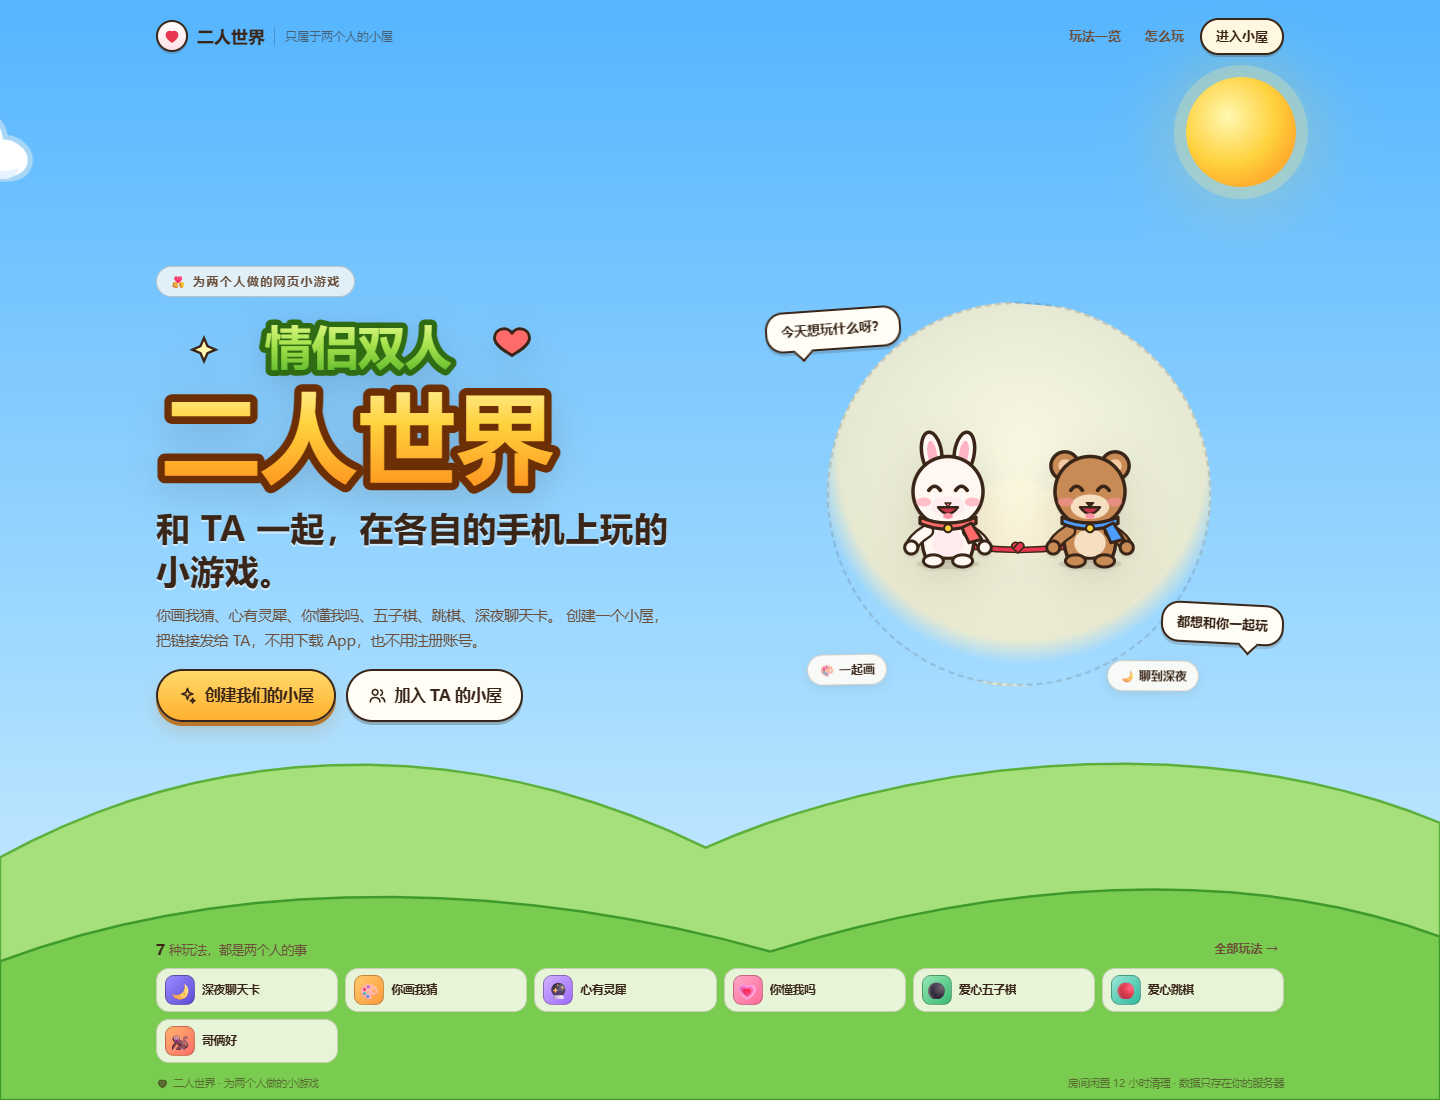
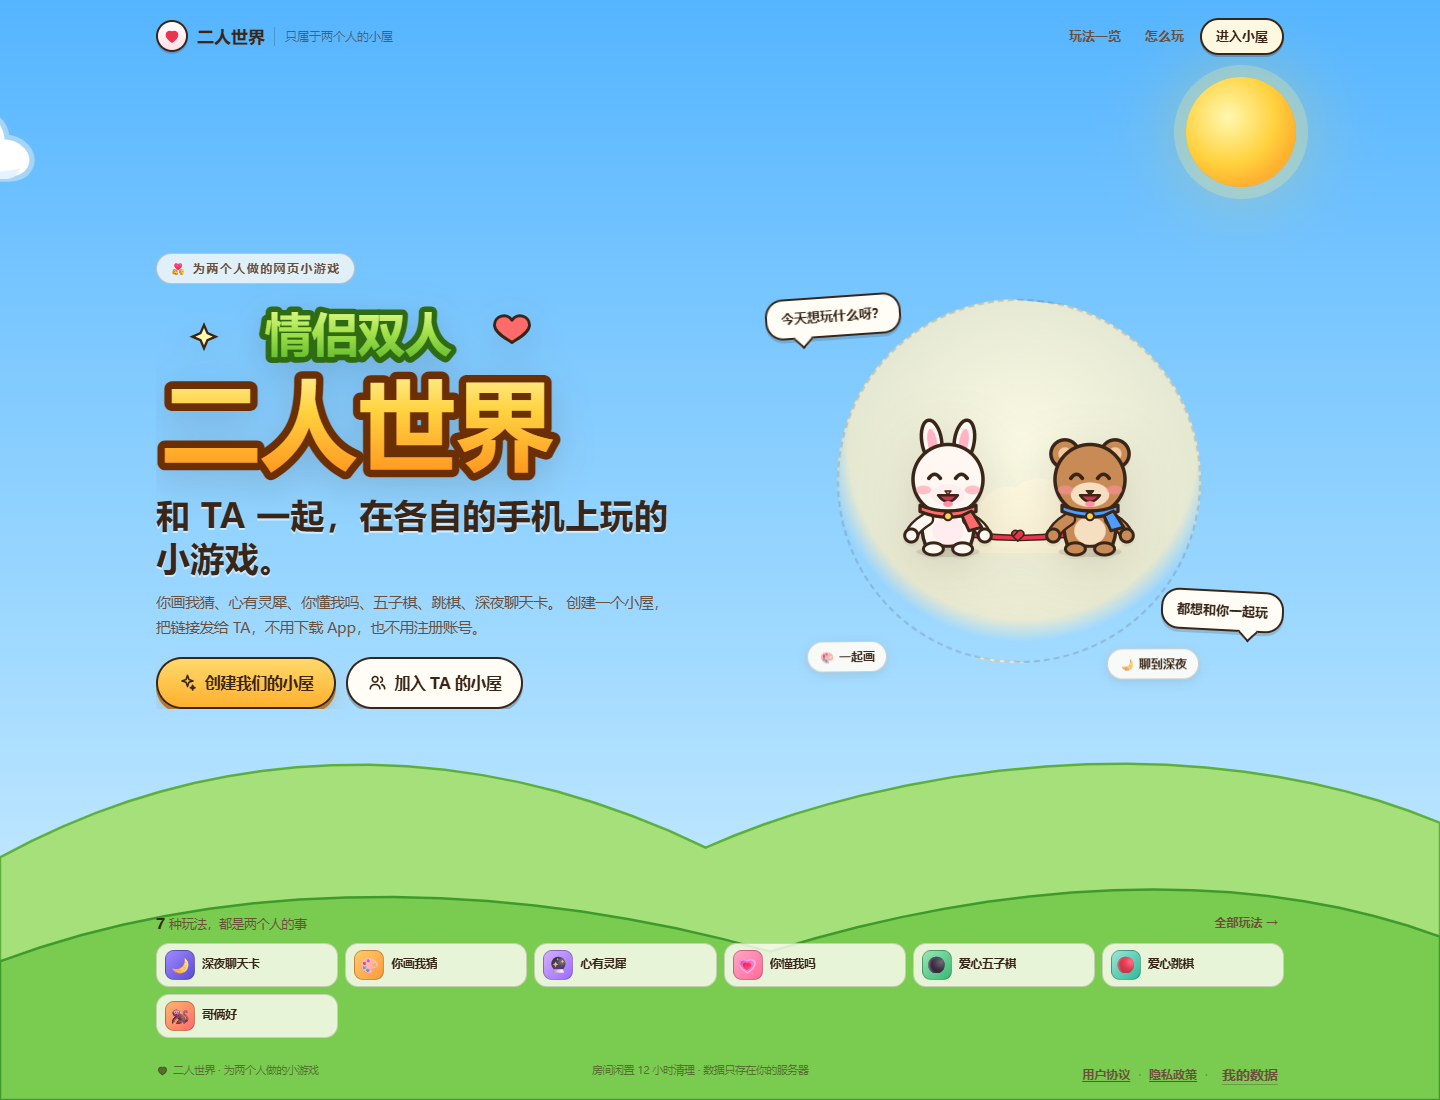
fix: home hero overflowed into the game strip on short viewports with saved rooms

diff --git a/src/styles.css b/src/styles.css
@@ -664,6 +664,20 @@ img {
   border-bottom: 2px dashed rgba(58, 38, 24, 0.25);
 }
 
+/* 两条「回到上次的小屋 / 我们的回忆」并排，别各占一行把版面顶长 */
+.title-links {
+  display: flex;
+  flex-wrap: wrap;
+  align-items: center;
+  gap: 4px 18px;
+  margin-top: 14px;
+  max-width: 100%;
+}
+
+.title-links .last-room-link {
+  margin-top: 0;
+}
+
 .last-room-link b {
   color: var(--ink);
   letter-spacing: 0.08em;
@@ -4744,6 +4758,7 @@ body {
   min-height: 0;
   display: grid;
   grid-template-columns: 1.04fr 0.96fr;
+  grid-template-rows: minmax(0, 1fr);
   gap: 24px;
   align-items: center;
 }
@@ -4753,17 +4768,28 @@ body {
   flex-direction: column;
   align-items: flex-start;
   min-width: 0;
+  min-height: 0;
+  max-height: 100%;
+  /* 窗口很矮时（比如笔记本 700px 高）宁可内部滚动，也不要顶到下面的玩法条 */
+  overflow-y: auto;
+  scrollbar-width: none;
+  padding-right: 2px;
+}
+
+.title-copy::-webkit-scrollbar {
+  width: 0;
+  height: 0;
 }
 
 .title-logo {
   display: block;
-  width: min(420px, 100%);
+  width: min(420px, 100%, 50vh);
   margin: 6px 0 0 -8px;
   filter: drop-shadow(0 10px 18px rgba(58, 38, 24, 0.16));
 }
 
 .title-copy h1 {
-  font-size: clamp(22px, 2.8vw, 34px);
+  font-size: clamp(20px, min(2.8vw, 3.4vh), 34px);
   max-width: 540px;
   margin: 2px 0 10px;
   text-shadow: 0 2px 0 rgba(255, 255, 255, 0.55);
@@ -4772,7 +4798,7 @@ body {
 .title-sub {
   max-width: 520px;
   color: var(--ink-2);
-  font-size: 14.5px;
+  font-size: clamp(12.5px, 1.85vh, 14.5px);
   line-height: 1.75;
   margin: 0 0 16px;
 }
@@ -4793,7 +4819,7 @@ body {
 .title-art {
   position: relative;
   height: 100%;
-  min-height: 300px;
+  min-height: 0;
   max-height: 440px;
   display: flex;
   align-items: center;
@@ -4804,7 +4830,8 @@ body {
 .title-art::before {
   content: "";
   position: absolute;
-  width: min(380px, 88%);
+  height: min(360px, 92%);
+  max-width: 92%;
   aspect-ratio: 1;
   border-radius: 50%;
   background: radial-gradient(circle at 50% 40%, rgba(255, 251, 226, 0.96), rgba(255, 239, 196, 0.78) 62%, rgba(255, 239, 196, 0) 70%);
@@ -5028,9 +5055,46 @@ body {
   height: 0;
 }
 
+/* 笔记本等矮屏：把标题区整体压扁一点，别让玩法条挤掉下面的链接 */
+@media (max-height: 800px) and (min-width: 981px) {
+  .title-logo {
+    width: min(330px, 100%, 46vh);
+  }
+
+  .title-copy h1 {
+    margin: 0 0 8px;
+  }
+
+  .title-sub {
+    margin-bottom: 12px;
+    line-height: 1.6;
+  }
+
+  .title-actions .primary,
+  .title-actions .secondary {
+    padding: 10px 16px;
+    font-size: 14.5px;
+  }
+
+  .title-links {
+    margin-top: 10px;
+    gap: 2px 16px;
+  }
+
+  .last-room-link {
+    font-size: 12.5px;
+    padding: 3px 0;
+  }
+
+  .title-art {
+    max-height: 380px;
+  }
+}
+
 @media (max-width: 980px) {
   .title-hero {
     grid-template-columns: 1fr;
+    grid-template-rows: auto minmax(0, 1fr);
     gap: 4px;
     align-content: center;
   }
@@ -5038,6 +5102,8 @@ body {
   .title-copy {
     align-items: center;
     text-align: center;
+    overflow: visible;
+    max-height: none;
   }
 
   .title-logo {
@@ -5062,7 +5128,7 @@ body {
   }
 
   .title-art::before {
-    width: min(300px, 80%);
+    height: min(170px, 92%);
   }
 
   .title-art .couple {
@@ -5175,6 +5241,17 @@ body {
   .home-foot-mini {
     padding: 2px 14px max(6px, env(safe-area-inset-bottom));
     font-size: 9px;
+    flex-wrap: wrap;
+    justify-content: center;
+    row-gap: 2px;
+  }
+
+  .home-legal-links {
+    width: 100%;
+    justify-content: center;
+    gap: 6px;
+    margin-top: 0;
+    font-size: 9.5px;
   }
 
   .home-foot-note {
@@ -5952,6 +6029,11 @@ body {
   font-weight: 700;
   text-decoration: underline;
   text-underline-offset: 2px;
+  white-space: nowrap;
+}
+
+.home-legal-links .text-button {
+  white-space: nowrap;
 }
 
 .home-legal-links span {

diff --git a/src/pages/HomePage.tsx b/src/pages/HomePage.tsx
@@ -106,22 +106,26 @@ export function HomePage() {
               </button>
             </div>
 
-            {last && (
-              <button className="last-room-link" onClick={() => navigate(`/r/${last.code}`)}>
-                <Icon name="clock" size={16} /> 回到上次的小屋 <b>{last.code}</b> →
-              </button>
-            )}
+            {(last || known.length > 0) && (
+              <div className="title-links">
+                {last && (
+                  <button className="last-room-link" onClick={() => navigate(`/r/${last.code}`)}>
+                    <Icon name="clock" size={16} /> 回到上次的小屋 <b>{last.code}</b> →
+                  </button>
+                )}
 
-            {known.length > 0 && (
-              <button className="last-room-link memory-link" onClick={() => setModal("memory")}>
-                <Icon name="book" size={16} /> 我们的回忆 <b>{known.length}</b> 间小屋 →
-              </button>
-            )}
+                {known.length > 0 && (
+                  <button className="last-room-link memory-link" onClick={() => setModal("memory")}>
+                    <Icon name="book" size={16} /> 我们的回忆 <b>{known.length}</b> 间小屋 →
+                  </button>
+                )}
 
-            {known.length > 0 && (
-              <button className="last-room-link memory-link" onClick={() => setModal("data")}>
-                <Icon name="lock" size={16} /> 我的数据 · 导出 / 删除
-              </button>
+                {known.length > 0 && (
+                  <button className="last-room-link memory-link" onClick={() => setModal("data")}>
+                    <Icon name="lock" size={16} /> 我的数据
+                  </button>
+                )}
+              </div>
             )}
           </div>
 

diff --git a/AGENTS.md b/AGENTS.md
@@ -82,7 +82,7 @@ npm run new:game -- <id> <名称> [emoji] [渐变1] [渐变2]  # 新游戏脚手
 ## 仓库注意事项
 
 - `dist / node_modules / _shots / _ref / data` 都在 `.gitignore`，不要提交（`data/` 是运行时的 SQLite 与回退 JSON，属于用户数据）；`docs/` 里的截图是提交的。CI 在 main push / PR 上跑 Node 20 和 22 的 build + test + smoke。
-- 版本走 `npm version X.Y.Z --no-git-tag-version` + `CHANGELOG.md` 更新 + `git tag vX.Y.Z` + `gh release create`，当前版本 1.3.0。
+- 版本走 `npm version X.Y.Z --no-git-tag-version` + `CHANGELOG.md` 更新 + `git tag vX.Y.Z` + `gh release create`，当前版本 1.3.1。
 - 生产环境：`https://love.zulogic.cn`（服务器 `guan`，systemd 服务 `duo-world`，Node 在 `/opt/node22`，应用 `/opt/duo-world`，OpenResty vhost 反代到 127.0.0.1:8790，复用 `*.zulogic.cn` 通配符证书，`PUBLIC_URL=https://love.zulogic.cn`）。部署步骤看 `docs/DEPLOY.md`。
 - 文件含中文且是 UTF-8：**不要用 PowerShell 的 `Get-Content/Set-Content` 来回读写**（会破坏编码），用文件编辑工具。
 - 详细玩法、部署、扩展指南看 `README.md`；商业化路线图在 `docs/ROADMAP.md`；贡献流程看 `CONTRIBUTING.md`。

diff --git a/CHANGELOG.md b/CHANGELOG.md
@@ -3,6 +3,21 @@
 本项目遵循 [Keep a Changelog](https://keepachangelog.com/zh-CN/1.1.0/)，
 版本号遵循 [语义化版本](https://semver.org/lang/zh-CN/)。
 
+## [1.3.1] - 2026-10-28
+
+### 修复
+
+- **首页标题区溢出**：矮屏（如 1366×700、1660×730）且已有历史小屋时，
+  「回到上次的小屋 / 我们的回忆 / 我的数据」三行链接会把标题区顶到玩法条下面，
+  互相遮挡并吃掉底部内容。现在三行链接并排成一行，标题区限高在容器内
+  （内容过多时内部滚动，不推挤其他区块），插画的圆形也改成按可用高度缩放。
+- **手机页脚**：页脚法律链接被挤成竖排（「用户协 / 议」），现在整行居中显示。
+
+### 变更
+
+- 新增矮屏（`max-height: 800px`）布局压缩：logo 按视口高度缩放，标题/描述/按钮同步收紧。
+- `scripts/visual.mjs` 新增「老用户回到首页」场景与重叠自动检查（标题区 / 插画不得压到玩法条）。
+
 ## [1.3.0] - 2026-10-28
 
 ### 新增
